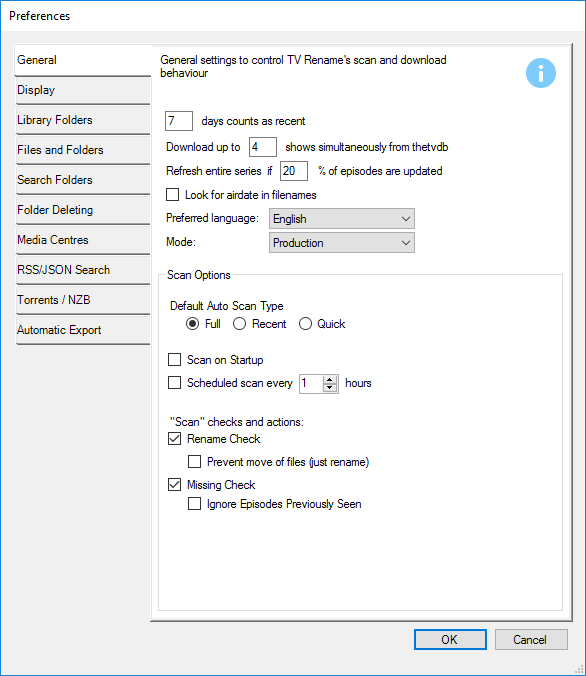
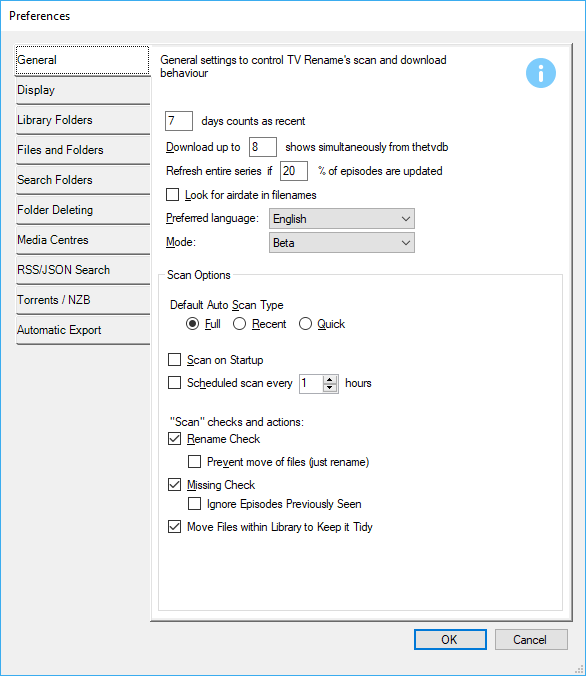
tidy up

diff --git a/_manual/options/preferences-general.md b/_manual/options/preferences-general.md
@@ -51,7 +51,7 @@ The "Scan Type" radio buttons tell TV&nbsp;Rename the type of scan to perform wh
 
 The scans also check the locations specified in _**[Options>Preferences - Search Folders]({{ site.baseurl }}/manual/options#the-search-folders-tab)**_ for any matching media files. |
 
- Ticking _Scan on Startup_ tells TV&nbsp;Rename to perform the selected scan when the program starts. Ticking _Scheduled scan..._ will force a repeat scan every "X" hours. Ticking _Monitor folders for changes_ will tell  TV&nbsp;Rename to "listen" for Windows "dropping" new files in the identified locations.
+ Ticking _Scan on Startup_ tells TV&nbsp;Rename to perform the selected scan when the program starts. Ticking _Scheduled scan..._ will force a repeat scan every "X" hours. Ticking _Monitor folders for changes_ will tell  TV&nbsp;Rename to "listen" for Windows "dropping" new files in the identified locations. Ticking _Move Files within Library to Keep it Tidy_ will do just that, if files have been directly added to or misplaced in the library enabling this setting will tidy stuff to the correct names and places.
 
 | _Defaults:_ | |
 | Scan Type | _**Full**_ |
@@ -62,6 +62,7 @@ The scans also check the locations specified in _**[Options>Preferences - Search
 | &emsp;&emsp;Prevent move of flies | _**Un-ticked**_ | 
 | Missing Check | _**Ticked**_ |
 | &emsp;&emsp;Ignore Episodes Previously Seen | _**Un-ticked**_ |
+| Move Files within Library to Keep it Tidy | _**Ticked**_ |
 
 {:.toplink}
 [Return to Top]()
